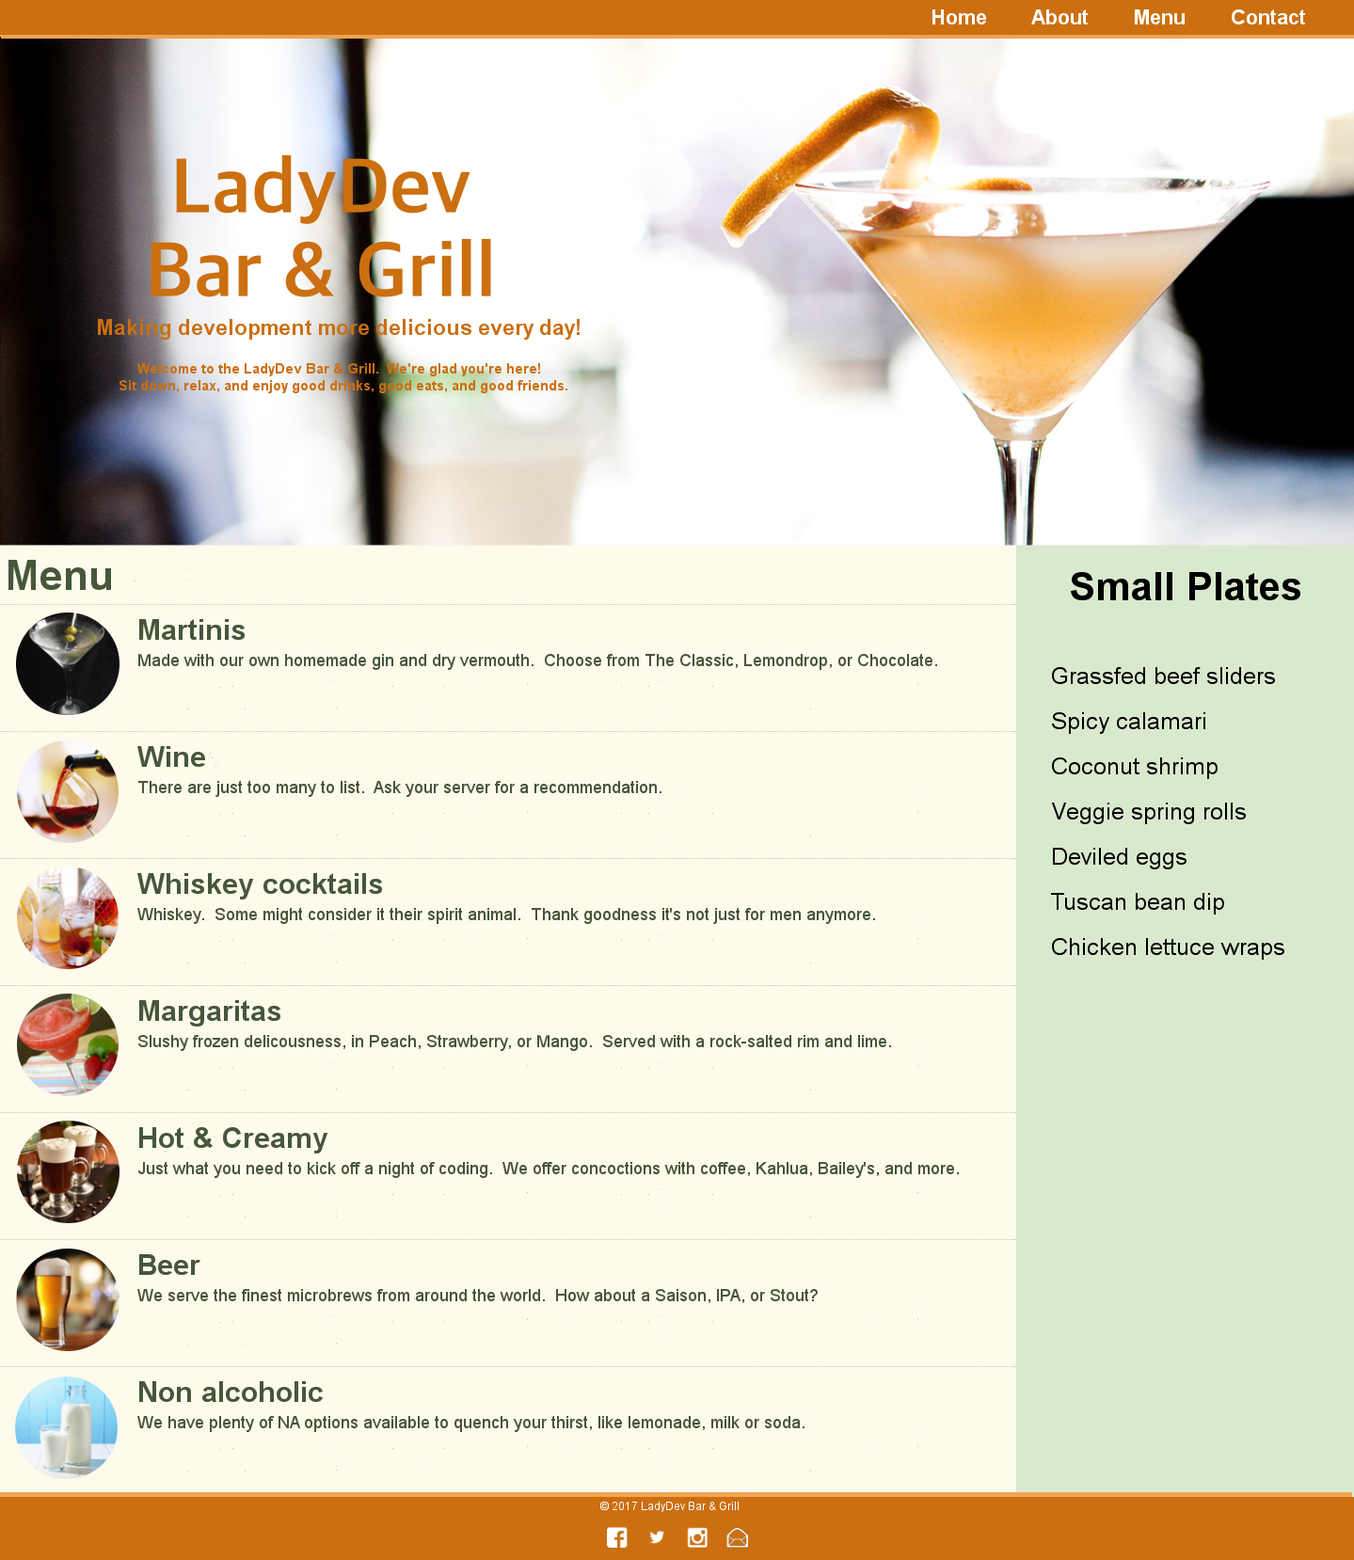
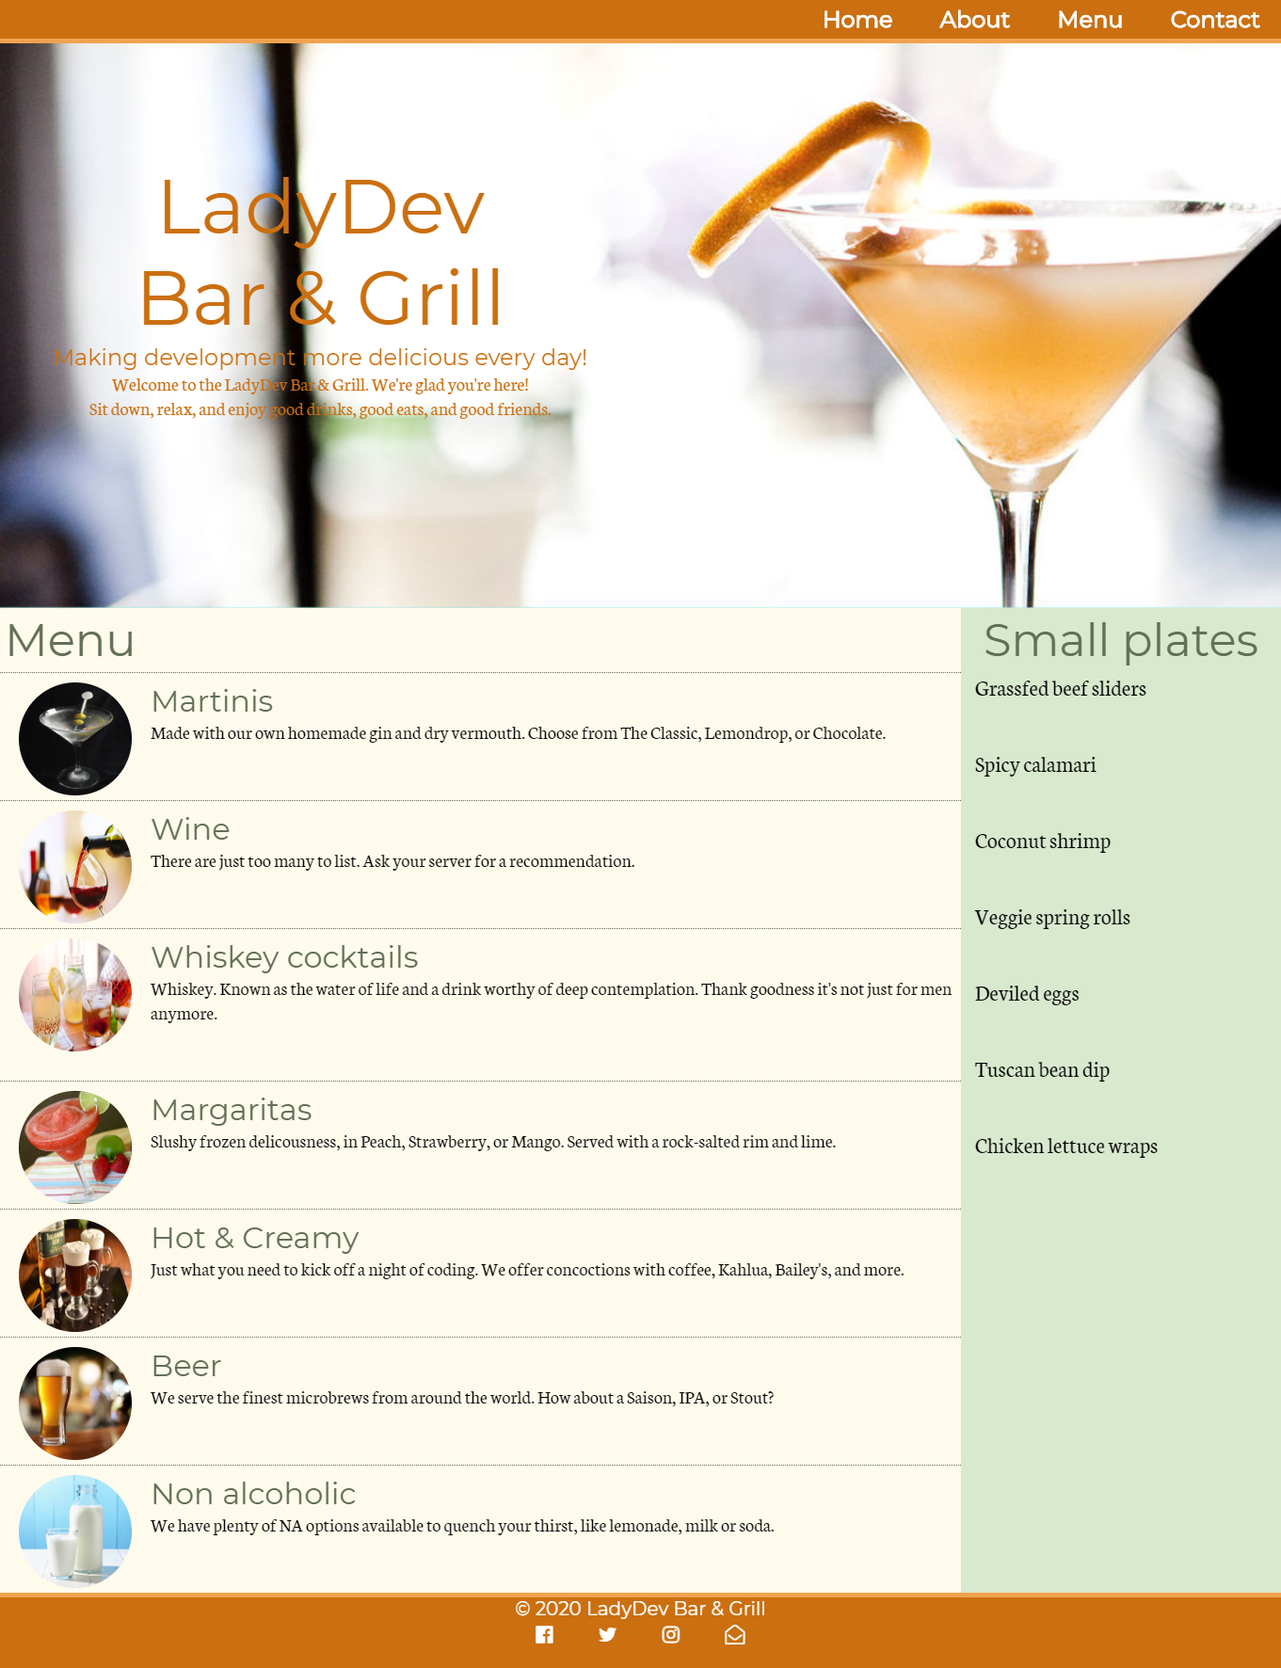
Convert to VS Code

Changed region(s): [[0.0, 0.0, 1.0, 1.0], [0.5246, 0.0, 1.0, 0.646], [0.7715, 0.6767, 0.8949, 0.7075]]

diff --git a/book/ws1-css-basics/1html-file.md b/book/ws1-css-basics/1html-file.md
@@ -1,18 +1,12 @@
 
-1. Open Atom from your installed applications. In Atom, select **File** <i class="fa fa-long-arrow-right"></i> **Add project folder**.
+1. Open Visual Studio Code (VS Code) from your installed applications. In VS Code, select **File** ![](../images/arrow-right.svg) **Open Folder...**.
 
 1. Navigate to and select the "CodingAndCocktails/session2" folder.
    {% hint style='danger' %}
 If you don't have a "CodingAndCocktails/session2" directory, take a moment to [set up your workspace](/setup).
    {% endhint %}  
 
-1. In the **Project** pane in Atom, right click on the "session2" project folder and select **New file**.
-   {% hint style="danger" %}
-If you see project folders from last session, remove the project folders by closing all the tabs for your code. Then right click on the folder to remove and select **Remove Project Folder**.
-
-   ![](images/atom-remove-project-folder.png)
-   {% endhint %}
-
+1. Create a file called _index.html_. In VS Code's **EXPLORER** pane, hover over **CSS** to display action buttons. Click the **New File** icon.
 
 1. Name the file _index.html_ and press `Enter` to save it in your "CodingAndCocktails/session2" folder.
 
@@ -54,37 +48,37 @@ If you see project folders from last session, remove the project folders by clos
                    <li class="item">
                       <a href="#"><img src="images/martini.jpg" alt=""></a>
                       <h3 class="head">Martinis</h3>
-                      <p>Made with our own homemade gin and dry vermouth.  Choose from The Classic, Lemondrop, or Chocolate.</p>
+                      <p>Made with our own homemade gin and dry vermouth. Choose from The Classic, Lemondrop, or Chocolate.</p>
                    </li>
                    <li class="item">
                       <a href="#"><img src="images/wine.jpg" alt=""></a>
                       <h3 class="head">Wine</h3>
-                      <p>There are just too many to list.  Ask your server for a recommendation.</p>
+                      <p>There are just too many to list. Ask your server for a recommendation.</p>
                    </li>
                    <li class="item">
                       <a href="#"><img src="images/whiskey-cocktails.jpg" alt=""></a>
                       <h3 class="head">Whiskey cocktails</h3>
-                      <p>Whiskey.  Some might consider it their spirit animal.  Thank goodness it's not just for men anymore.</p>
+                      <p>Whiskey. Known as the water of life and a drink worthy of deep contemplation. Thank goodness it's not just for men anymore.</p>
                     </li>
                     <li class="item">
                        <a href="#"><img src="images/margarita.jpg" alt=""></a>
                        <h3 class="head">Margaritas</h3>
-                       <p>Slushy frozen delicousness, in Peach, Strawberry, or Mango.  Served with a rock-salted rim and lime.</p>
+                       <p>Slushy frozen delicousness, in Peach, Strawberry, or Mango. Served with a rock-salted rim and lime.</p>
                     </li>
                     <li class="item">
                        <a href="#"><img src="images/hot-cocktail.jpg" alt=""></a>
                        <h3 class="head">Hot &amp; Creamy</h3>
-                       <p>Just what you need to kick off a night of coding.  We offer concoctions with coffee, Kahlua, Bailey's, and more.</p>
+                       <p>Just what you need to kick off a night of coding. We offer concoctions with coffee, Kahlua, Bailey's, and more.</p>
                     </li>
                     <li class="item">
                        <a href="#"><img src="images/beer.jpg" alt=""></a>
                        <h3 class="head">Beer</h3>
-                       <p>We serve the finest microbrews from around the world.  How about a Saison, IPA, or Stout?</p>
+                       <p>We serve the finest microbrews from around the world. How about a Saison, IPA, or Stout?</p>
                     </li>
                     <li class="item">
                        <a href="#"><img src="images/milk.jpg" alt=""></a>
                        <h3 class="head">Non alcoholic</h3>
-                       <p>We have plenty of NA options available to quench your thirst, like lemonade, milk or soda.</p>
+                       <p>We have plenty of NA options available to quench your thirst, like lemonade, milk, or soda.</p>
                     </li>
                  </ul>
               </div>
@@ -103,7 +97,7 @@ If you see project folders from last session, remove the project folders by clos
            </div>
         </div>
         <footer id="contact">
-           <p>&copy; 2019 LadyDev Bar &amp; Grill</p>
+           <p>&copy; 2020 LadyDev Bar &amp; Grill</p>
            <ul>
               <li><a href="http://facebook.com/ladydevbargrill"><i class="fa fa-facebook-official fa-lg"></i></a></li>
               <li><a href="http://twitter.com/ladydevbargrill"><i class="fa fa-twitter fa-lg"></i></a></li>
@@ -115,11 +109,11 @@ If you see project folders from last session, remove the project folders by clos
    </html>
    ```
 
-1. Save the file by selecting **File** <i class="fa fa-long-arrow-right"></i> **Save**. You can also use the keyboard shortcut `ctrl + s` on Windows or `cmd + s` on Mac. Unsaved files in Atom have a little blue dot on the tab.
+1. Save the file by selecting **File** ![](../images/arrow-right.svg) **Save**. You can also use the keyboard shortcut `ctrl + s` on Windows or `cmd + s` on Mac. Unsaved files in VS Code have a little dot on the tab.
 
-   ![](images/atom.png)
+   ![](images/vs-code-save.png)
 
-1. Now we'll prepare the images. First we need a folder for the images. In Atom, right click on the "session2" folder in the **Project** pane and select **New Folder**. Name the folder "images".
+1. Now we'll prepare the images. First we need a folder for the images. In VS Code, click on **SESSION2** expander panel and click on the **New Folder** icon. Name the folder "images".
 
 1. In Chrome, open a [new tab to download the contents of our GitHub repository containing the images](https://github.com/KansasCityWomeninTechnology/CSSCompilerPractice/archive/master.zip).
    {% hint style="info" %}

diff --git a/book/ws1-css-basics/2create-css.md b/book/ws1-css-basics/2create-css.md
@@ -1,14 +1,14 @@
-1. We need a folder for the stylesheet we'll be creating tonight. In Atom, create the "css" folder for the project and create the _styles.css_ file inside the "css" folder.
+1. We need a folder for the stylesheet we'll be creating tonight. In VS Code, create the "css" folder for the project and create the _styles.css_ file inside the "css" folder.
    {% hint style="working" %}
 <details>
 <summary>
 Need a little help? Expand this section for guidance. 
 </summary> 
-In Atom, right click on the "session2" project folder. Select <b>New Folder</b>. Name your folder "css". Right click on the "css" folder. Select <b>New File</b> to create your stylesheet file. Name the file <i>styles.css</i>.
+In VS Code, click on <b>SESSION2</b> expander and click on the <b>New Folder</b> icon. Name your folder "css". Right click on the "css" folder. Select <b>New File</b> to create your stylesheet file. Name the file <i>styles.css</i>.
 </details>
    {% endhint %}
 
-1. In Atom, open _index.html_. In the HTML `<head>` section (between the opening `<head>` and closing `</head>`), find the HTML tags for `title` and `script`. Place your cursor after the closing `title` tag, press `Enter`, and link your stylesheet by adding 
+1. In VS Code, open _index.html_. In the HTML `<head>` section (between the opening `<head>` and closing `</head>`), find the HTML tags for `title` and `script`. Place your cursor after the closing `title` tag, press `Enter`, and link your stylesheet by adding 
 
    `<link rel="stylesheet" href="css/styles.css">`.
    
@@ -30,22 +30,18 @@ Didn't have a chance to attend the HTML session or do you need a refresher? Grab
 
 1. Save your file.
 
-1. Now we want to preview the _index.html_ file in Chrome. Instead of saving and reloading the page manually, we'll use the atom plugin **atom-live-server**. This package opens up the web page in your default web browser and reloads the page whenever you save files. In Atom, start the live server by selecting **Packages** <i class="fa fa-long-arrow-right"></i> **atom-live-server**. Select **Start server**. A browser tab will open.
+1. Now we want to preview the _index.html_ file in Chrome. Instead of saving and reloading the page manually, we'll use the VS Code extension **Live Server**. This extension opens up the web page in your default web browser and reloads the page whenever you save files. In VS Code, start the live server by right clicking on _index.html_ in the **EXPLORER** pane and select **Open with Live Server**. A browser tab will open.
    {% hint style='danger' %}
-If you don't have the **atom-live-server** package, take a moment to [set up your workspace](/setup).
+If you don't have the **Live Server** package, take a moment to [set up your workspace](/setup).
    {% endhint %}   
 
    {% hint style='danger' %}
 If the tab opens in another browser, copy the URL and paste it into a new tab in Chrome. The reload will automatically happen in Chrome.
 
-If you get an access warning, click "Allow" to let **atom-live-server** serve the application.
+If you get an access warning, click "Allow" to let **Live Server** serve the application.
 
 If you are borrowing a laptop and get an access warning, please contact a member of the Coding & Cocktails leadership team for access.
    {% endhint %}   
-
-   {% hint style='danger' %}
-If you have more than 1 project folder open in Atom, atom-live-server will serve the _index.html_ from the first project. Remove all projects from Atom except for this session.
-   {% endhint %}  
 
 1. Take a look at your app in Google Chrome and notice the current styling. The page doesn't look good yet but we've got our initial setup for our project done. Now let's get to the fun part - styling!
 

diff --git a/book/references/README.md b/book/references/README.md
@@ -17,17 +17,35 @@
 
 <!-- trick markdown to give me a little space between these two sections of text -->
 ## 
-### Atom Keyboard Shortcuts 
-| Command | Windows Key Combination | Mac Key Combination |
-| --- | --- | --- |
-| Select all | `ctrl` + `a` | `cmd` + `a` |
-| Cut | `ctrl` + `x` | `cmd` + `x` |
-| Copy | `ctrl` + `c` | `cmd` + `c` |
-| Paste | `ctrl` + `v` | `cmd` + `v` |
-| Undo | `ctrl` + `z` | `cmd` + `z` |
-| Save | `ctrl` + `s` | `cmd` + `s` |
-| Comment selected lines | `ctrl` + `/` | `cmd` + `/` |
-| Untab one or more lines | `shift` + `tab` | `shift` + `tab` |
-| Move a line up or down | `ctrl` + `shift` + `up or down arrow keys` | `ctrl` + `cmd` + `up or down arrow keys` |
-| Multi-cursor - make edits in several places at once. | `ctrl` + `d` | `cmd` + `d` |
-| Open Preferences | `ctrl` + `,` | `cmd` + `,` |
+### VS Code Keyboard Shortcuts 
+
+{% hint style='info' %}
+Too many keyboard shortcuts?
+
+You can type what you're looking for in the **Command Palette**. Open the Command Palette by selecting **View** ![](../images/arrow-right.svg) **Command Palette...** and type the action you want to do.
+
+To open the Command Palette quickly, use the keyboard shortcut `ctrl` + `shift` + `p`.
+{% endhint %}
+
+**Helpful Keyboard Shortcuts**
+
+| Command | Mac Key Combination | Windows Key Combination |
+| :--- | :--- | :--- |
+| Open Command Palette | `ctrl` + `shift` + `p` | `ctrl` + `shift` + `p` |
+| Select all | `cmd` + `a` | `ctrl` + `a` |
+| Cut | `cmd` + `x` | `ctrl` + `x` |
+| Copy | `cmd` + `c` | `ctrl` + `c` |
+| Paste | `cmd` + `v` | `ctrl` + `v` |
+| Undo | `cmd` + `z` | `ctrl` + `z` |
+| Save | `cmd` + `s` | `ctrl` + `s` |
+| Toggle comment | `cmd` + `f` | `ctrl` + `f` |
+| Go to file | `cmd` + `p` | `ctrl` + `p` |
+| Open terminal pane | `ctrl` + \` | `ctrl` + \` |
+| Create new terminal | `ctrl` + `shift` + \` | `ctrl` + `shift` + \` |
+| Auto-format file | `shift` + `option` + `f` | `shift` + `alt` + `f` |
+| Auto-format selection | `cmd`+ `k` `cmd` + `f` | `ctrl`+ `k` `ctrl` + `f` |
+| Indent | `cmd` + `]` | `ctrl` + `]` |
+| Outdent line | `cmd` + `[` | `ctrl` + `[` |
+
+**Need more info?** Refer to [VS Code's Documentation](https://code.visualstudio.com/docs/getstarted/tips-and-tricks).
+

diff --git a/book/setup/README.md b/book/setup/README.md
@@ -3,6 +3,14 @@ Tonight we will learn the basics of applying styles to a website using **C**asca
 
 <!-- trick markdown to give me a little space between these two sections of text -->
 ## 
+Follow the instructions on this page to prepare your workspace.
+
+{% hint style='tip' %}
+Open [Slack](http://kcwit.slack.com/) to the **#codingandcocktails** channel. It's a great way to stay in touch with your Coding & Cocktails girlfriends and to ask questions during and after the session. We'll also post updates and tips in Slack if we run in to any stumbling blocks tonight.
+{% endhint %}
+
+<!-- trick markdown to give me a little space between these two sections of text -->
+## 
 {% hint style='danger' %}
 If you are borrowing a laptop, please ask your mentor to explain the tools.
 {% endhint %}
@@ -29,9 +37,9 @@ Open [Slack](http://kcwit.slack.com/) to the **#codingandcocktails** channel. It
 You don't need all the tools for tonight's session. If you haven't installed all the tools listed in [The Tools](https://bit.ly/CnCTheTools) guide already, use the following list to install the required tools for the worksheet:
 1. [Chrome browser](https://codingandcocktailskc.gitbooks.io/coding-cocktails-the-tools/content/tools-browser/)
 
-1. [Atom IDE](https://codingandcocktailskc.gitbooks.io/coding-cocktails-the-tools/content/tools-atom/)
+1. [Visual Studio Code IDE](https://codingandcocktailskc.gitbooks.io/coding-cocktails-the-tools/content/tools-vscode/)
 
-1. [Install atom-live-server package](https://codingandcocktailskc.gitbooks.io/coding-cocktails-the-tools/content/tools-atom/#required-packages)
+1. [Install Live Server extension](https://codingandcocktailskc.gitbooks.io/coding-cocktails-the-tools/content/tools-vscode/#required-extensions)
 
 1. [Coding & Cocktails folder](https://codingandcocktailskc.gitbooks.io/coding-cocktails-the-tools/content/tips-directory-structure/)
 

diff --git a/book/ws1-css-basics/cloud-ide.md b/book/ws1-css-basics/cloud-ide.md
@@ -1,4 +1,4 @@
-You will use **CodeSandbox** tonight as your **I**ntegrated **D**evelopment **E**nvironment. Any time the worksheet references Atom, use CodeSandbox instead.
+You will use **CodeSandbox** tonight as your **I**ntegrated **D**evelopment **E**nvironment. Any time the worksheet references Visual Studio Code, use CodeSandbox instead.
 
 Follow the instructions below to get your environment going.
 
@@ -11,11 +11,11 @@ Follow the instructions below to get your environment going.
 1. Use your GitHub credentials to sign in.
 
 1. In the **New Sandbox** page, select **Import** tab and paste the following URL into the input box labeled **GitHub Repository URL...**: 
-`https://github.com/KansasCityWomeninTechnology/CSSCompilerPractice/tree/ad/add-codesandbox`
+`https://github.com/KansasCityWomeninTechnology/CSSCompilerPractice/tree/codesandbox`
 
 1. Click **Open Sandbox** to create your project.
 
-1. Once the project loads, CodeSandbox displays 3 panes. On the far left you will see your project files. In the middle you'll see your code in the _index.html_ tab. On the right you will see your application. CodeSandbox automatically displays your application and updates after you save your file, just like Atom's atom-live-server package.
+1. Once the project loads, CodeSandbox displays 3 panes. On the far left you will see your project files. In the middle you'll see your code in the _index.html_ tab. On the right you will see your application. CodeSandbox automatically displays your application and updates after you save your file, just like Visual Studio Code's Live Server extension.
 
 1. Before you start following the worksheet, click the **<span class="octicon octicon-repo-forked"></span> Fork** button in the toolbar. You'll see it at the top right of your screen. This makes your own copy of the project so you can save your changes.
 

diff --git a/book/ws1-css-basics/3resize-images.md b/book/ws1-css-basics/3resize-images.md
@@ -1,4 +1,4 @@
-1. In Atom, open _index.html_. Find the HTML tag `div` for drinks with the title text "Menu". It contains an unordered list with `class="drinks"` and has an image using the HTML `img` tag. We will need to apply a style to the HTML `img` selector within `class="drinks"`.
+1. In VS Code, open _index.html_. Find the HTML tag `div` for drinks with the title text "Menu". It contains an unordered list with `class="drinks"` and has an image using the HTML `img` tag. We will need to apply a style to the HTML `img` selector within `class="drinks"`.
    {% hint style='tip' %}
 The syntax for a CSS rule looks like this:
 ```css
@@ -21,7 +21,7 @@ To target selectors within a `class` you have to specify both the `class` and se
     ```
     Save your file and view your app in Chrome. The width of all the images within `class="drinks"` resized to 25% of the view. 
     {% hint style='tip' %}
-Atom can help you out! IDEs can help auto-complete code for you, including CSS properties. When you start typing a property, Atom will suggest properties matching the name.
+VS Code can help you out! IDEs can help auto-complete code for you, including CSS properties. When you start typing a property, VS Code will suggest properties matching the name.
     {% endhint %}
 
 1. Now let's try absolute sizes. Change your style to use `width: 120px;`. Save your file and view your app in Chrome. The width of all the images resized to 120 pixels.

diff --git a/book/ws1-css-basics/5background-color.md b/book/ws1-css-basics/5background-color.md
@@ -12,7 +12,7 @@ The `body` is the parent element for the website so setting a style here applies
 
 1. Select a background color for the Small plates menu. Notice in _index.html_ the Small plates menu `div` has a `class="sidebar"`. Create a style for this class after the style you already created for drinks and set the background color. 
    {% hint style='tip' %}
-You can search for and find "Small plates" in the _index.html_ in Atom. In the toolbar, select **Find** <i class="fa fa-long-arrow-right"></i> **Find in Buffer**. You can also use a [keyboard shortcut](../references/).
+You can search for and find "Small plates" in the _index.html_ in VS Code. In the toolbar, select **Edit** ![](../images/arrow-right.svg) **Find in Files** or click on the magnifying glass on the left toolbar (where you installed Extensions). You can also use a [keyboard shortcut](../references/).
     {% endhint %}
 1. To help make the navigation and footer area pop, select a background color to use. Look at the _index.html_ file to identify the selectors for the navigation and footer sections. Be sure to declare the style for the navigation bar near the top of _styles.css_ file and footer style at the bottom of the file.
    {% hint style='working' %}

diff --git a/book/ws1-css-basics/4title-color.md b/book/ws1-css-basics/4title-color.md
@@ -5,7 +5,7 @@ Ensure your colors are a11y friendly by using the WebAIM [Color Contrast Checker
 Google's [Color Tool](https://material.io/color/) makes this a little easier by pre-defining color palettes with accessible contrast.
     {% endhint %}
 
-1. In Atom, find the `div` containing the HTML header tag with the text "LadyDev" in _index.html_. Note the `div` has `class="hero-text"` and you have `h1`, `h2`, and `p` tags to style.
+1. In VS Code, find the `div` containing the HTML header tag with the text "LadyDev" in _index.html_. Note the `div` has `class="hero-text"` and you have `h1`, `h2`, and `p` tags to style.
 
 1. In _styles.css_, declare a style for the `h1` tag above the existing style for `.drinks img` and add the color you selected for the title using the `color` property like this
     

diff --git a/book/ws1-css-basics/README.md b/book/ws1-css-basics/README.md
@@ -23,7 +23,7 @@ This section will help guide you through the following steps:
 {% include "./instruction-steps.html" %}
 
 ## Prepare the HTML file {#html-file} 
-First we need the HTML file. We'll create the file, download the images, and set up Atom.
+First we need the HTML file. We'll create the file, download the images, and set up the development environment.
 {% include "./1html-file.md" %}
 
 ## Create and link the stylesheet to the HTML {#link-stylesheet} <span class="navigate-top"><a href="#top" title="Take me to the top of page"><i class="fa fa-chevron-circle-up" aria-hidden="true"></i></a></span>

diff --git a/book/homework/media-query.md b/book/homework/media-query.md
@@ -17,7 +17,7 @@ Google provides breakpoints for different form factors-- dimension and resolutio
 
 ## Define grid template areas
 
-1. Open your project in Atom and start atom-live-server. 
+1. Open your project in VS Code and start Live Server. 
 
 1. In _style.css_, declare a grid area for the drinks menu by adding `grid-area: drinks;` to the styles for the `div` with `class="drinks"`. 
 1. Declare a grid area for the Small plates menu sidebar. Name it "sidebar".  
